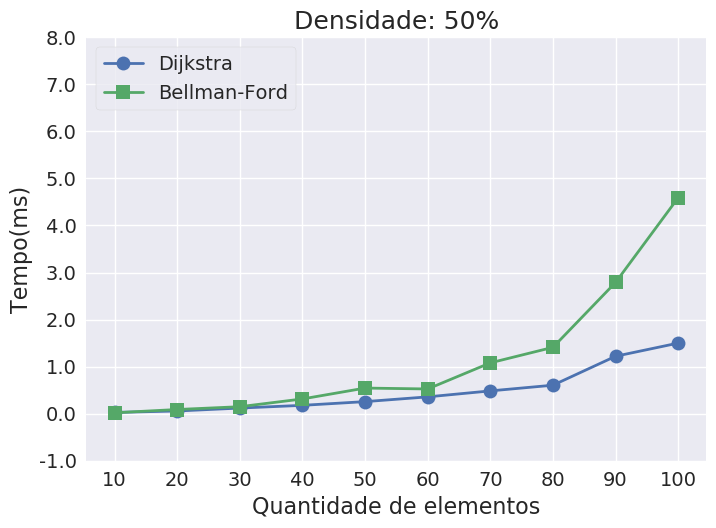
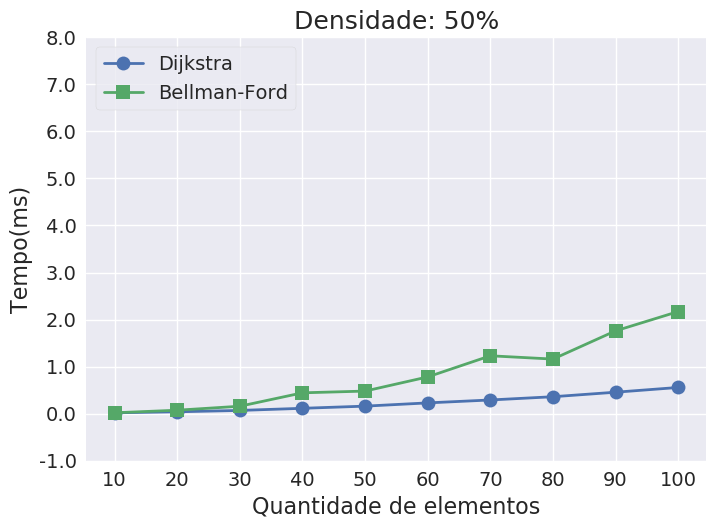
fixing dijkstra's binary heap implementation

diff --git a/projeto-02/dijkstra/dijkstra_binary_heap.py b/projeto-02/dijkstra/dijkstra_binary_heap.py
@@ -1,5 +1,5 @@
 from collections import defaultdict
-from typing import Dict, List, Tuple
+from typing import Dict, List, Set, Tuple
 import heapq
 import sys
 
@@ -20,18 +20,17 @@ class DijkstraBinaryHeap:
         paths: Dict[str, Tuple[str, float]] = defaultdict(lambda: ("", float("inf")))
         paths[source] = ("", 0)
 
-        vertices_dict: Dict[str, Tuple[float, str]] = dict()
+        # vertices_dict: Dict[str, Tuple[float, str]] = dict()
         vertices_queue: List[Tuple[float, str]] = list()
+        visited_vertices: Set[str] = set()
 
-        for v in self.graph:
-            shared_vertice = [float("inf"), v]
-            vertices_dict[v] = shared_vertice
-            heapq.heappush(vertices_queue, shared_vertice)
+        heapq.heappush(vertices_queue, (0, source))
 
-        vertices_dict[source][0] = 0
-
-        while len(vertices_queue) > 0:
+        qtd_vertices = len(self.graph.elements.keys())
+        while len(visited_vertices) < qtd_vertices:
             accumulated_distance, current_vertice = heapq.heappop(vertices_queue)
+            if current_vertice in visited_vertices:
+                continue
 
             for (next_vertice, distance) in self.graph[current_vertice].items():
                 new_distance = accumulated_distance + distance
@@ -39,8 +38,9 @@ class DijkstraBinaryHeap:
 
                 if new_distance < old_distance:
                     paths[next_vertice] = current_vertice, new_distance
-                    vertices_dict[next_vertice][0] = new_distance
-                    heapq.heapify(vertices_queue)
+                    heapq.heappush(vertices_queue, (new_distance, next_vertice))
+
+            visited_vertices.add(current_vertice)
 
         self.paths[source] = dict(paths)
         return dict(paths)

diff --git a/projeto-02/comparison/algoritms.py b/projeto-02/comparison/algoritms.py
@@ -8,7 +8,7 @@ import numpy as np
 sys.path.append("../../projeto-02")
 
 from graph import Graph
-from dijkstra.dijkstra_list import DijkstraList
+from dijkstra.dijkstra_binary_heap import DijkstraBinaryHeap
 from bellman_ford import BellmanFord
 
 qtds = list(np.arange(10, 91, 10)) + list(np.arange(100, 1001, 100))
@@ -21,16 +21,16 @@ with open(path.join(path.curdir, "algorithms.csv"), "w") as priority_queues:
     for density, n in product((0.25, 0.5, 1), [int(qtd) for qtd in qtds]):
         # print(f"{n} elements with {int(density * 100)}% of density")
         g = Graph.random_generator(n, density)
-        time_dl = []
+        time_dh = []
         time_bf = []
 
         for i in range(10):
-            dl = DijkstraList(g)
+            dh = DijkstraBinaryHeap(g)
             bf = BellmanFord(g)
 
             start_time = time()
-            dl.calculate_shortest_paths("0")
-            time_dl.append(time() - start_time)
+            dh.calculate_shortest_paths("0")
+            time_dh.append(time() - start_time)
 
             start_time = time()
             bf.calculate_shortest_paths("0")
@@ -39,7 +39,7 @@ with open(path.join(path.curdir, "algorithms.csv"), "w") as priority_queues:
         csv_writer.writerow(
             [
                 n,
-                f"{(sum(time_dl) / len(time_dl)):.2e}",
+                f"{(sum(time_dh) / len(time_dh)):.2e}",
                 f"{(sum(time_bf) / len(time_bf)):.2e}",
                 str(int(density * 100)),
             ]

diff --git a/projeto-02/comparison/plotting_queues.py b/projeto-02/comparison/plotting_queues.py
@@ -97,7 +97,7 @@ priority_queues_25_100_to_1000.plot(
     xlabel="Quantidade de elementos",
     title="Densidade: 25%",
     xticks=[(x + 1) * 1e2 for x in range(10)],
-    ylim=(-5e-2, 7e-1),
+    ylim=(-5e-2, 3e-1),
     linewidth=2,
 ).legend(loc="upper left", frameon=True, fancybox=True, fontsize=14)
 
@@ -113,7 +113,7 @@ priority_queues_50_100_to_1000.plot(
     xlabel="Quantidade de elementos",
     title="Densidade: 50%",
     xticks=[(x + 1) * 1e2 for x in range(10)],
-    ylim=(-5e-2, 7e-1),
+    ylim=(-5e-2, 3e-1),
     linewidth=2,
 ).legend(loc="upper left", frameon=True, fancybox=True, fontsize=14)
 
@@ -129,7 +129,7 @@ priority_queues_100_100_to_1000.plot(
     xlabel="Quantidade de elementos",
     title="Densidade: 100%",
     xticks=[(x + 1) * 1e2 for x in range(10)],
-    ylim=(-5e-2, 7e-1),
+    ylim=(-5e-2, 3e-1),
     linewidth=2,
 ).legend(loc="upper left", frameon=True, fancybox=True, fontsize=14)
 

diff --git a/projeto-02/main.py b/projeto-02/main.py
@@ -6,7 +6,7 @@ from graph import Edge, Graph
 from time import time
 
 if __name__ == "__main__":
-    RUN_PART_1 = True
+    RUN_PART_1 = False
     RUN_PART_2 = True
     RUN_PART_3 = True
 
@@ -72,7 +72,7 @@ if __name__ == "__main__":
         g2.add("E", Edge("G", 3))
         g2.add("F", Edge("G", 3))
 
-        d = DijkstraList(g2)
+        d = DijkstraBinaryHeap(g2)
         exec_time = time()
         d.calculate_shortest_paths("A")
         exec_time = time() - exec_time
@@ -164,7 +164,7 @@ if __name__ == "__main__":
         exec_times = []
 
         for _ in range(10):
-            d = DijkstraList(g3)
+            d = DijkstraBinaryHeap(g3)
             start_time = time()
             d.calculate_shortest_paths("Brasília")
             exec_times.append(time() - start_time)

diff --git a/projeto-02/comparison/priority_queues.py b/projeto-02/comparison/priority_queues.py
@@ -12,8 +12,8 @@ from dijkstra.dijkstra_list import DijkstraList
 from dijkstra.dijkstra_binary_heap import DijkstraBinaryHeap
 from dijkstra.dijkstra_fibonacci_heap import DijkstraFibonacciHeap
 
-# qtds = list(np.arange(10, 91, 10)) + list(np.arange(100, 1001, 100))
-qtds = list(np.arange(10, 91, 10))
+qtds = list(np.arange(10, 91, 10)) + list(np.arange(100, 1001, 100))
+# qtds = list(np.arange(10, 91, 10))
 
 with open(path.join(path.curdir, "priority_queues.csv"), "w") as priority_queues:
     csv_writer = csv.writer(priority_queues)
